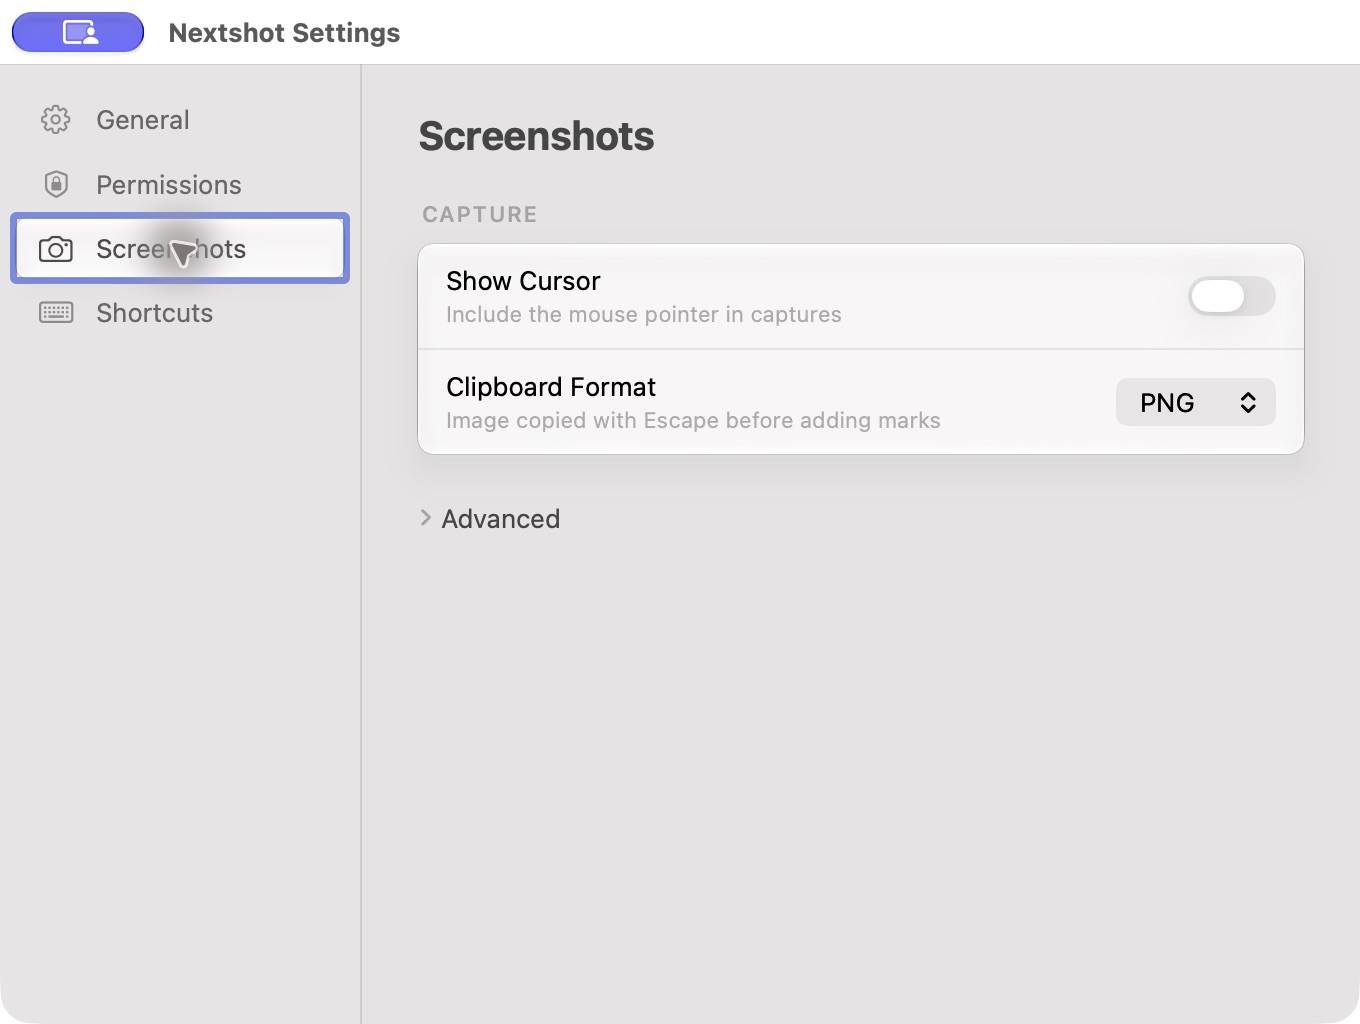
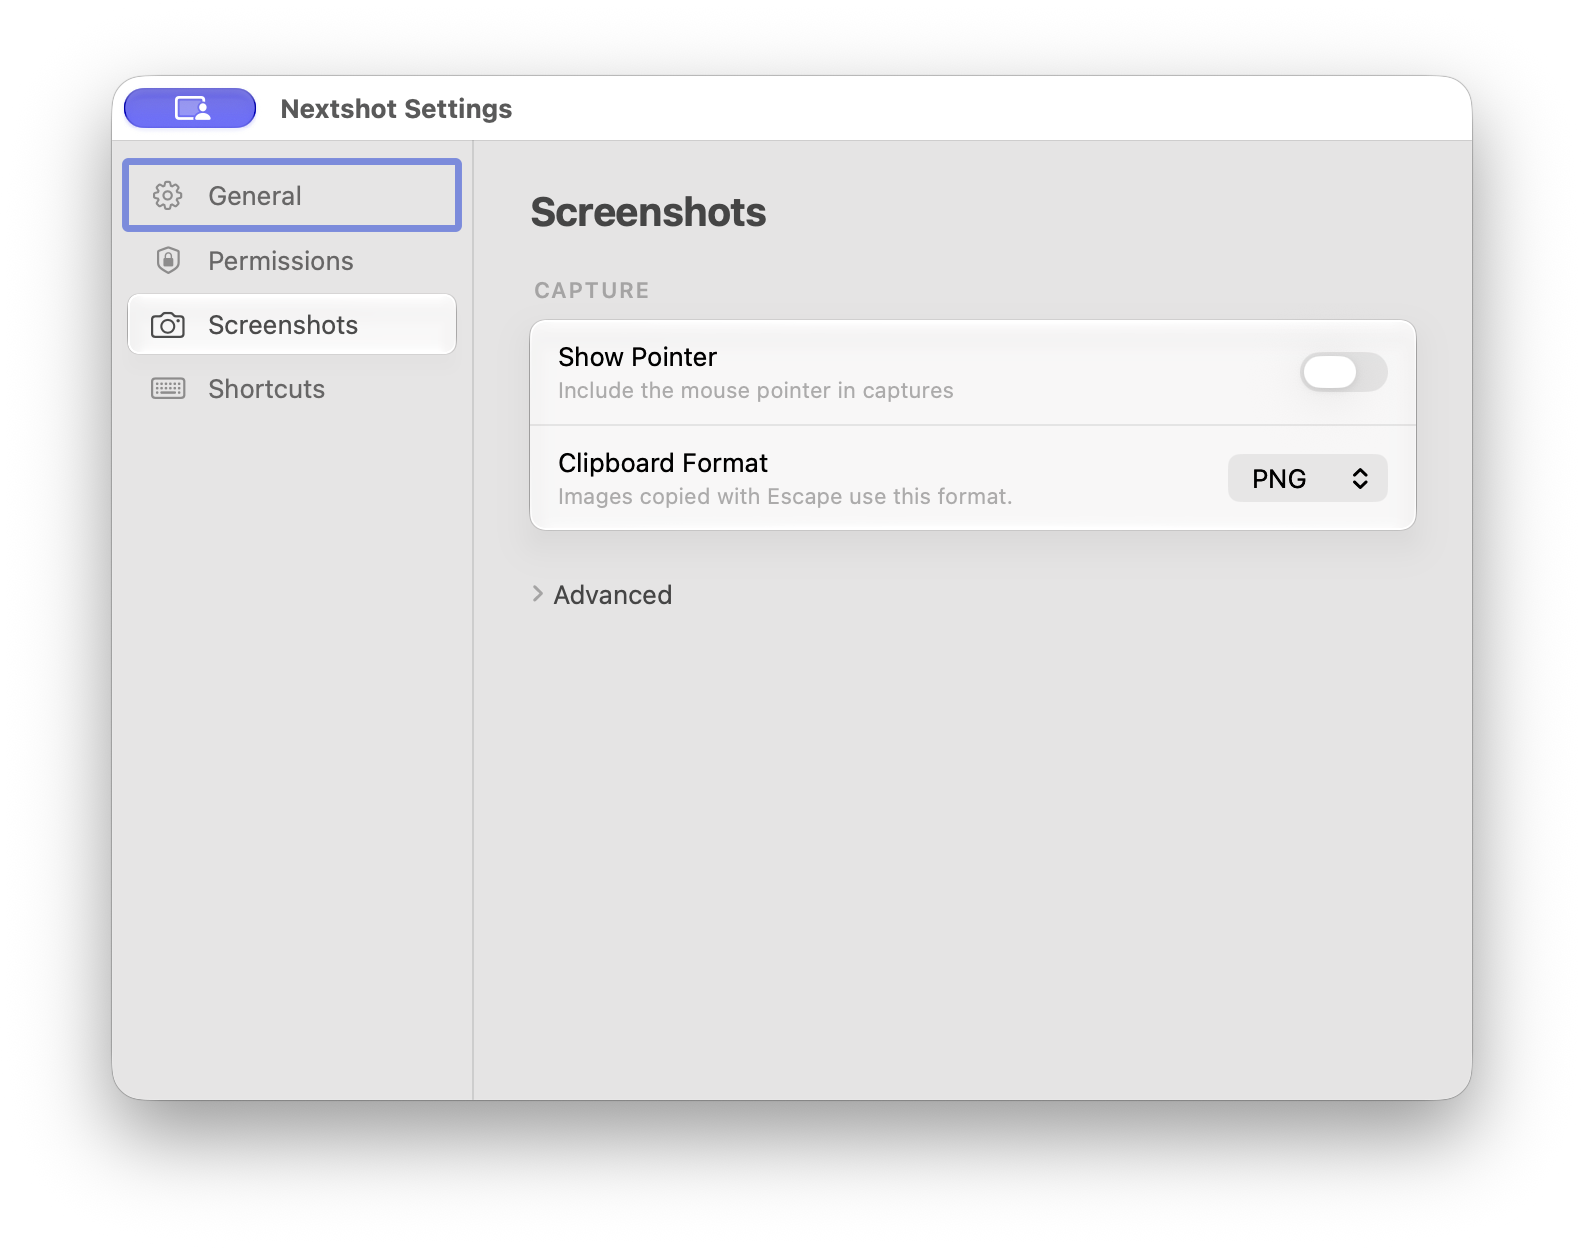
chore: finalize 0.5.0 release notes and verification

Changed region(s): [[0.0, 0.0, 1.0, 1.0], [0.0618, 0.875, 0.9265, 0.9375], [0.4632, 0.2188, 0.8029, 0.25]]

diff --git a/docs/plans/2026-10-28-v0.5.0-release.md b/docs/plans/2026-10-28-v0.5.0-release.md
@@ -1,0 +1,80 @@
+# Nextshot 0.5.0 release
+
+Approved by Drew on October 28, 2026.
+
+## Outcome
+
+Publish the signed and notarized Nextshot 0.5.0 DMG at nextshot.dev. Publish matching Guides and release notes for 0.3.0, 0.4.0, and 0.5.0.
+
+## Scope
+
+- Integrate the reviewed local permission-help refinements, Diagnostics safeguards, and Dev build fixes with current main.
+- Preserve the merged startup, round subtitle, clipboard help, and shortcut clear-button fixes.
+- Integrate the m5pro Dev-only safeguards. Preserve the primary checkout and its unrelated feedback progress edit.
+- Verify native round submission through its real fixed-host transport, screening, notification, owner review, and rebuilt download. Enable it only after those checks pass.
+- Keep screenshot copy, ZIP export, Jev, optional capture tools, and automatic updates off. Exclude them and Chrome work from the public notes.
+- Update affected guides and actual Dev screenshots. Retain onboarding video v5.
+
+## Sequence
+
+1. Prepare the integration and Guides branches in separate checkouts.
+2. Run the existing relevant checks. Review one optimized Nextshot Dev candidate.
+3. Enable native backend admission temporarily and prove one synthetic submission. On failure, restore website-only admission before repair.
+4. Merge all accepted source, notes, guide media, and release documentation.
+5. Freeze main. Apply the native activation marker, commit it once, and verify the exact commit with CI.
+6. Run the release dry run and the existing release command. Require a successful Guides stage before publication.
+7. Verify the public DMG, matching release metadata, Guides, release notes, search, and homepage media.
+
+The activation helper reserves exactly one activation commit and one normal release commit. No other commit belongs between activation and release.
+
+## Verification
+
+Use the existing SharedKit, FeedbackKit, SupportKit, StartupKit, app, JevKit Release, website, and feedback service checks relevant to the integration. Add no test framework or broad gate. Do not weaken a failing check.
+
+Review capture, marks, notes, copy, end, resume, older rounds, four Settings tabs, permission help, shortcut clearing, native disclosure, cancel, retry, and duplicate submission behavior in the running Dev app.
+
+Inspect each changed guide on desktop and phone. Check keyboard access, links, search, images, and text overflow. Record the exact source revision, version, build, and flags for new app media.
+
+## Publication and recovery
+
+Use the approved alternate network for native and browser checks. The existing smoke script also uses its documented public DNS path. Keep the release script's signing, notarization, route checks, terminal confirmation, immutable archives, and rollback behavior.
+
+If the app smoke check fails, restore the previous download pointer. If Guides fail after the app passes, restore the site Worker and retry the exact staged artifact. The task is complete only when both deliverables pass live checks.
+
+## Accepted limits
+
+Drew defers actual sign-in and fresh production installer acceptance on another Mac. Issue 154 remains open. Only Nextshot Dev is installed or run on m5pro. Production applications remain distribution artifacts there.
+
+Historical dates use UTC release records. Existing published archives, tags, and release records remain immutable.
+
+## Progress
+
+- Base production: 0.4.0, build 804, commit 3d2ddc8.
+- Integration base: 4825e71. Chrome draft PR 161 is excluded.
+- Original Dev: 0.4.0-dev, build 896. Its preferences are saved under build/release-0.5.0.
+- Native source and Guides work run in separate checkouts. Root owns the installed Dev app and deployment.
+
+
+## Verification record
+
+- Integrated native source: 1c1147f. Guides source: 5b60798.
+- Signed Dev 0.4.0-dev, build 882, passes signature and local identity checks.
+- Existing suites pass: SharedKit 279, FeedbackKit 341, SupportKit 6, JevKit Release 369, app 247, feedback service 96, scanner Python 62, site 22. StartupKit builds and has no test target.
+- Independent integration review finds no actionable issue.
+- Four Settings tabs, compact permission help, default-visible clipboard help, and five round shortcuts pass native review.
+- The physical shortcut clear button clears the saved binding. Original shortcut values and local flag overrides are restored after testing.
+- Real capture, marking, note entry, capture prompt writing, round prompt copy, and round end pass. Automation selects the wrong foreground window. Both resulting rounds are archived outside the library without submission.
+- The native submission fixture uses the published fictional Lemonaid image pair through the actual round store. Cancellation, blank optional note, service-unavailable retry, package reuse, duplicate-click protection, and receipt pass. The source round's six hashes remain unchanged.
+- The reduced upload holds only support.json and one annotated JPEG. It excludes clean images, stored screen text, window titles, app names, source paths, and generated prompts.
+- Native receipt d8fe470a-3be4-4b19-a9d5-2c18ebfbe08b is screened. Its private draft is ready and its notification completes. Exactly one native row is created.
+- Owner signs in through the existing Cloudflare policy. Protected review shows the screened fictional notes and ready private draft. The rebuilt JPEG downloads through that protected route and matches its recorded 23,745 bytes and SHA-256.
+- All ten changed guides pass desktop and phone layout checks. Search, links, anchors, keyboard activation, and image enlargement pass. The clipped Advanced image is replaced with a complete scrolled preset view.
+- Actual production installation and actual sign-in acceptance remain deferred by Drew. Issue 154 stays open.
+
+### Release rehearsal fixture repair
+
+The integrated site suite first passes 19 of 22 tests. Its release fixture omits the new scripts/nextshot-local.py dependency. Copying that real guard into the existing fixture restores all 22 checks. Production guard behavior and approval assertions remain unchanged. Evidence: build/release-0.5.0/site-integration-checks.log.
+
+### Ready for activation
+
+The protected download completes after owner sign-in. The rebuilt JPEG visually matches the fictional source and all three counters. Native end-to-end acceptance is complete. The original local Dev overrides and shortcuts are restored. The remaining work is source integration, the frozen activation commit, normal release publication, and live app/Guides checks.

diff --git a/CHANGELOG.md b/CHANGELOG.md
@@ -8,36 +8,23 @@ Capso's own history (versions 0.9.3 to 1.2.5) is not part of this file. This for
 
 ## [Unreleased]
 
-### Fixed
-
-- The shortcut field’s clear button clears the assigned keys while keeping the action available.
-
-- Clipboard Format help describes screenshot copying when the feature is enabled and Escape image copy otherwise.
-- Recent round subtitles fit app names to one line, preserve capture and selection counts, and show complete app names in a tooltip.
-
 ### Added
 
-- Optional screenshot copy with Option+Shift+4, Annotate Last Screenshot with Option+Shift+A, and combined image history with explicit Add to Round. The capability stays off by default during Dev review.
-
-- Fresh installations offer Launch at Login on by default. Login startup stays quiet, and disabling it in Nextshot or macOS stays off across updates.
-
-- An email-only intake shutdown mode preserves website, native, processing, screening, and notification controls.
-
-- Screen Recording help explains screen access beside the permission label.
-- Discrete visibility flags cover Settings tabs, sections, and controls.
-- Public website feedback for bug reports, feature requests, questions, and optional screenshots or Nextshot exports, with private screening and owner review.
-- Native round submission for 0.5.0, activated through the release checklist after the live transport and Dev app review.
-
-- Settings guide with startup, screen access, capture preferences, and shortcut customization.
 - Show More in Recent Rounds gives access to older rounds grouped by day, week, and month, with the same round actions.
+- Submit Round to Nextshot sends a reviewed round's annotated screenshots and notes after an explicit Submit action. Clean copies and stored screen text stay on the Mac.
+- Settings guides explain startup, screen access, capture preferences, and shortcut customization.
+- Report a Bug and Request a Feature open the online feedback form for messages and optional attachments.
 
 ### Changed
 
-- Annotating a saved screenshot uses current round notes. Clean copy stays available after round dates lose fractional seconds.
+- Fresh installations offer Launch at Login on by default. Login startup stays quiet. Disabling it in Nextshot or macOS keeps it off across updates.
+- Settings use clearer pointer labels, functional shortcut groups, and compact Screen Recording help. Repository links, Diagnostics, and centered-selection settings stay hidden by default.
 
-- Keep screenshot startup quiet when image history cannot open.
+### Fixed
 
-- Support buttons open the online feedback form. Settings hide repository links and Diagnostics. Pointer labels and functional shortcut groups use clear wording. Centered-selection settings start hidden.
+- The shortcut field's clear button clears the assigned keys while keeping the action available.
+- Recent round subtitles fit app names to one line and preserve capture and selection counts.
+- Clipboard Format help describes the available Escape image-copy action.
 
 ## [0.4.0] - 2026-10-27
 

diff --git a/docs/feedback-intake.md b/docs/feedback-intake.md
@@ -6,7 +6,7 @@ Implementation plan: [[2026-10-26-secure-feedback-intake]]. Security rules: [[SE
 
 The website intake runs at https://feedback.nextshot.dev/. Cloudflare Access protects `/review` and its child routes with the exact owner policy. The application also verifies the signed Access token. Owner sign-in and a rebuilt JPEG download pass without bypassing browser protections.
 
-The base configuration remains closed. The explicit production profile reuses the approved private scanner digest. Website admission, processing, contextual checks, and fixed-recipient notifications are enabled. Native admission and inbound email remain disabled. Native app defaults remain off until the release owner activates them for 0.5.0 through [[2026-10-27-feedback-release-handoff]]. No production app is built by the website launch task.
+The base configuration remains closed. The explicit production profile reuses the approved private scanner digest. Website and native admission, processing, contextual checks, and fixed-recipient notifications are enabled. Inbound email remains disabled. Native app defaults remain off in 0.4.0. The reviewed 0.5.0 release activates native submission through [[2026-10-27-feedback-release-handoff]]. No production app is built by the website launch task.
 
 The public human test receives receipt 086892f7, completes screening, prepares a private draft, and completes its notification send. The browser with automation attached returns Turnstile error 300030. After the owner disconnects automation, the normal browser verification and submission pass. Keep browser protections and server verification enabled. The form preserves accepted receipt messages after later challenge callbacks or status-poll outages.
 
@@ -21,6 +21,12 @@ python3 scripts/feedback-cloudflare-preflight.py
 ```
 
 That probe reports API permissions and destination verification. It deliberately never reports full launch readiness. It does not mutate Cloudflare.
+
+## Native release verification, October 28, 2026
+
+Signed Nextshot Dev build 882 submits a fictional round through the real support panel. Cancellation, a blank optional note, service-unavailable retry, immutable package reuse, and duplicate-click handling pass. The reduced package contains one annotated JPEG and support.json. Its source round remains unchanged.
+
+Receipt d8fe470a-3be4-4b19-a9d5-2c18ebfbe08b completes screening, prepares a private draft, and completes notification. Owner sign-in and the protected rebuilt-image download pass. The 23,745-byte JPEG matches its recorded SHA-256. Inbound email remains off. Release evidence and the accepted installer/sign-in limits are in [[2026-10-28-v0.5.0-release]].
 
 ## Credential handling
 

diff --git a/AGENTS.md b/AGENTS.md
@@ -155,9 +155,10 @@ Agent access:
 
 ## App capabilities
 
-- `AppCapabilities` in FeedbackKit resolves six off/on flags for the app. All start off in dev and release: `standaloneCapture`, `recordingTools`, `translationTools`, `cloudShare`, `automationURLs`, and `automaticUpdates` (issue #119). These flags are not dev-only.
-- `Capabilities.current` in `App/Feedback/Capabilities.swift` freezes that policy once per launch. Flag changes require a normal quit and reopen. Recording, translation, cloud sharing, and URL automation require `standaloneCapture` as well. Updates are independent.
+- `AppCapabilities` in FeedbackKit resolves eight off/on flags for the app. All start off in dev and release: `standaloneCapture`, `recordingTools`, `translationTools`, `cloudShare`, `automationURLs`, and `automaticUpdates` (issue #119), `screenshotCopy` (issue #123), and `diagnostics` (issue #118). These flags are not dev-only.
+- `Capabilities.current` in `App/Feedback/Capabilities.swift` freezes that policy once per launch. Flag changes require a normal quit and reopen. Recording, translation, cloud sharing, and URL automation require `standaloneCapture` as well. Updates, screenshot copy, and Diagnostics are independent.
 - Default Settings show General, Permissions, Screenshots, and Shortcuts. Shared round capture, annotation, local OCR, and Escape image copy remain available. Optional History cleanup, recording recovery, shortcut registration, provider key reads, and service creation stay off with their capability.
+- Diagnostics writes local files only when its capability and saved logging preference are both on.
 - A saved preference never overrides an off capability. Keep saved settings, Keychain items, rounds, and History files intact. Gate alternate menus, URL actions, file opening, and coordinator entry points as well as Settings.
 
 ## Jev (dev builds only)
